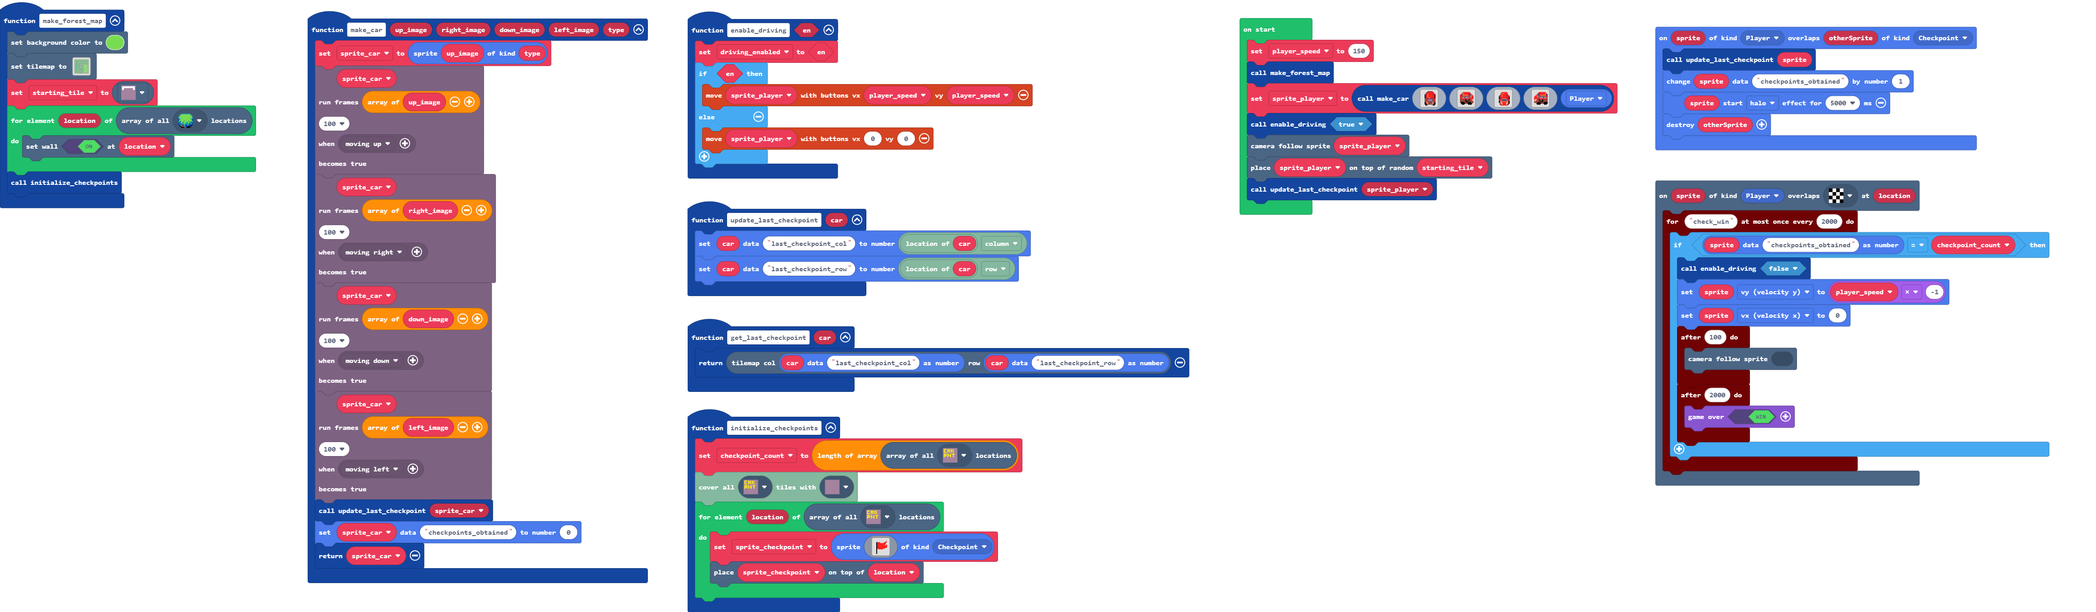
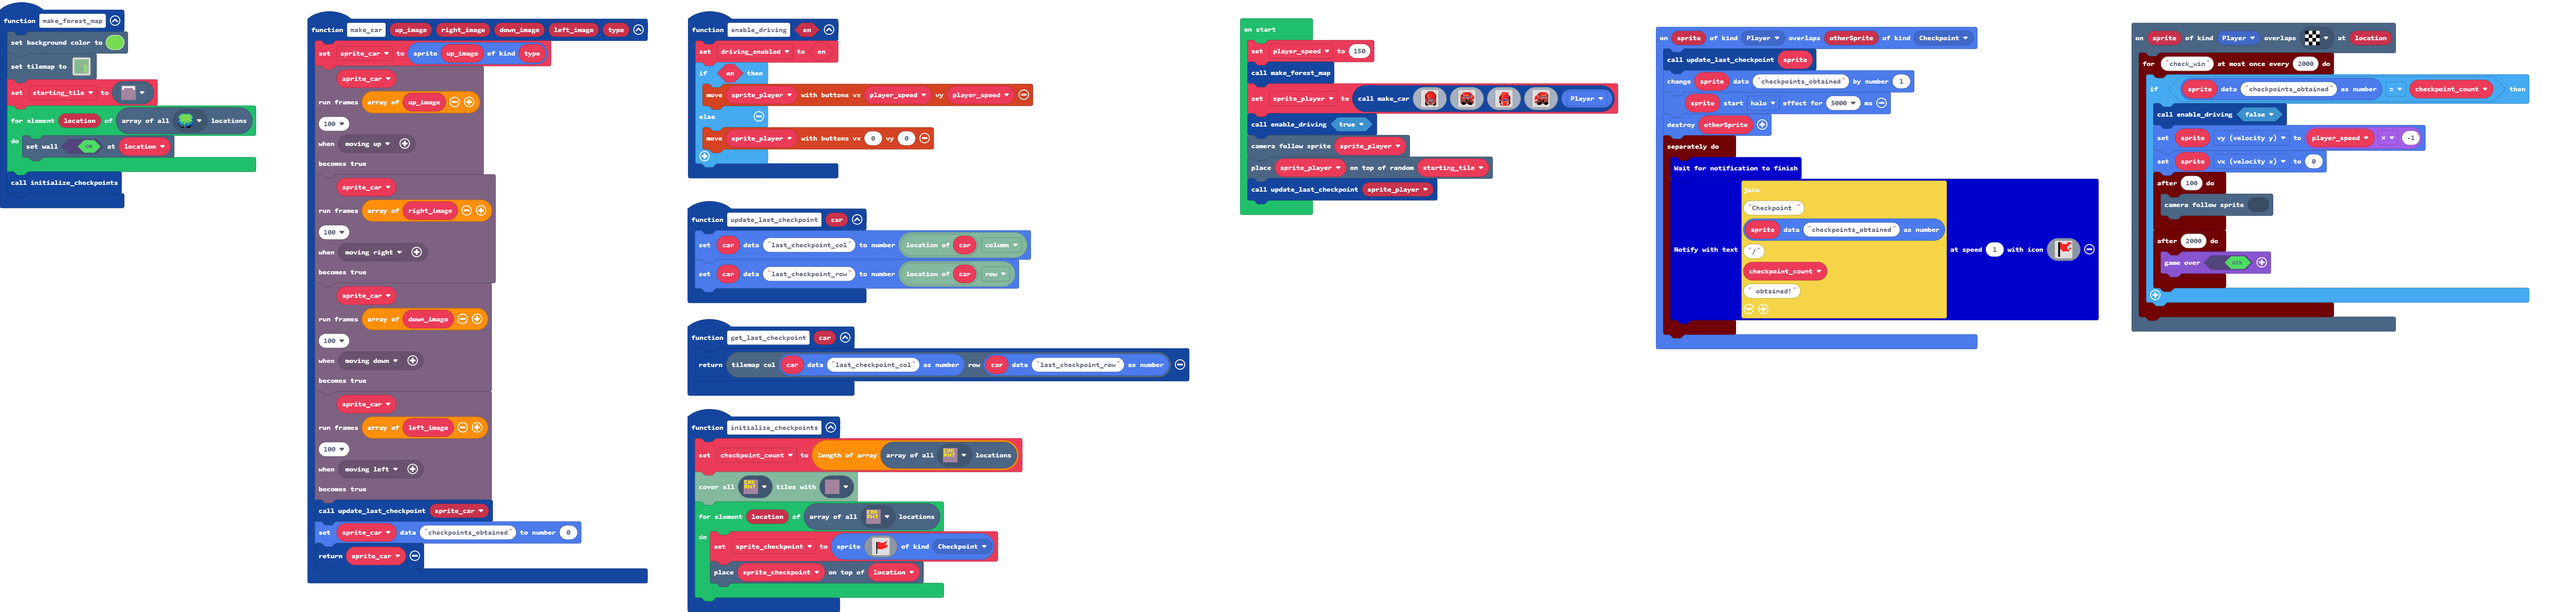
Add notification when you get checkpoint

diff --git a/main.ts b/main.ts
@@ -6,6 +6,10 @@ sprites.onOverlap(SpriteKind.Player, SpriteKind.Checkpoint, function (sprite, ot
     sprites.changeDataNumberBy(sprite, "checkpoints_obtained", 1)
     sprite.startEffect(effects.halo, 5000)
     otherSprite.destroy()
+    timer.background(function () {
+        Notification.waitForNotificationFinish()
+        Notification.notify("Checkpoint " + sprites.readDataNumber(sprite, "checkpoints_obtained") + "/" + checkpoint_count + " obtained!", 1, assets.image`mini_checkpoint_flag`)
+    })
 })
 function make_car (up_image: Image, right_image: Image, down_image: Image, left_image: Image, _type: number) {
     sprite_car = sprites.create(up_image, _type)
@@ -85,9 +89,9 @@ function update_last_checkpoint (car: Sprite) {
     sprites.setDataNumber(car, "last_checkpoint_row", tiles.locationXY(tiles.locationOfSprite(car), tiles.XY.row))
 }
 let sprite_checkpoint: Sprite = null
-let checkpoint_count = 0
 let driving_enabled = false
 let sprite_car: Sprite = null
+let checkpoint_count = 0
 let starting_tile: Image = null
 let sprite_player: Sprite = null
 let player_speed = 0

diff --git a/images.g.ts b/images.g.ts
@@ -114,6 +114,17 @@ namespace myImages {
 ......ff........................
 ......ff........................
 `;
+            case "image6":
+            case "mini_checkpoint_flag":return img`
+. f 2 . . . 2 2 
+. f 2 2 2 2 2 . 
+. f 2 2 2 2 . . 
+. f 2 2 2 2 . 2 
+. f . 2 2 2 2 . 
+. f . . . . . . 
+. f . . . . . . 
+. f . . . . . . 
+`;
         }
         return null;
     })
